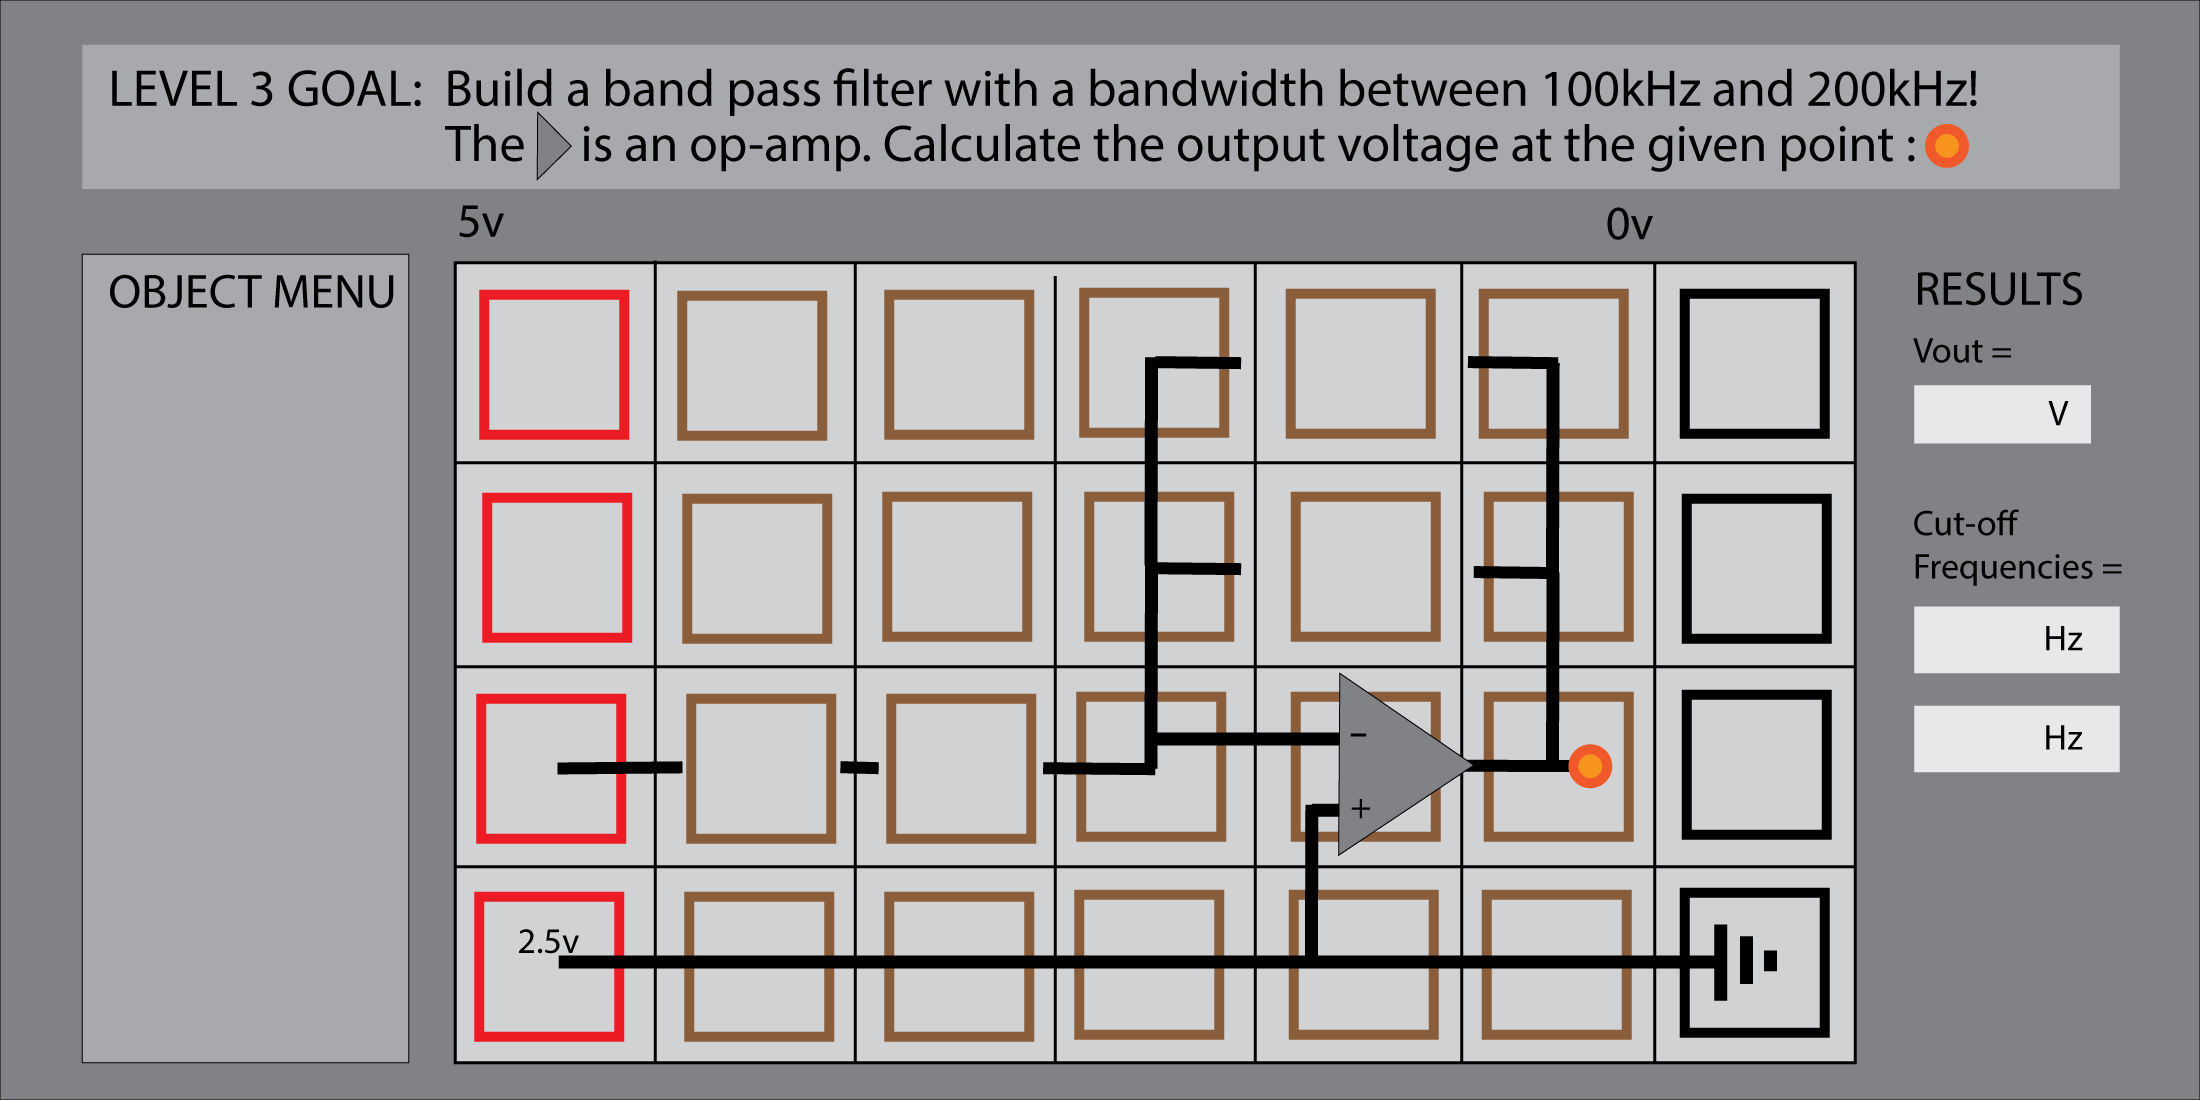
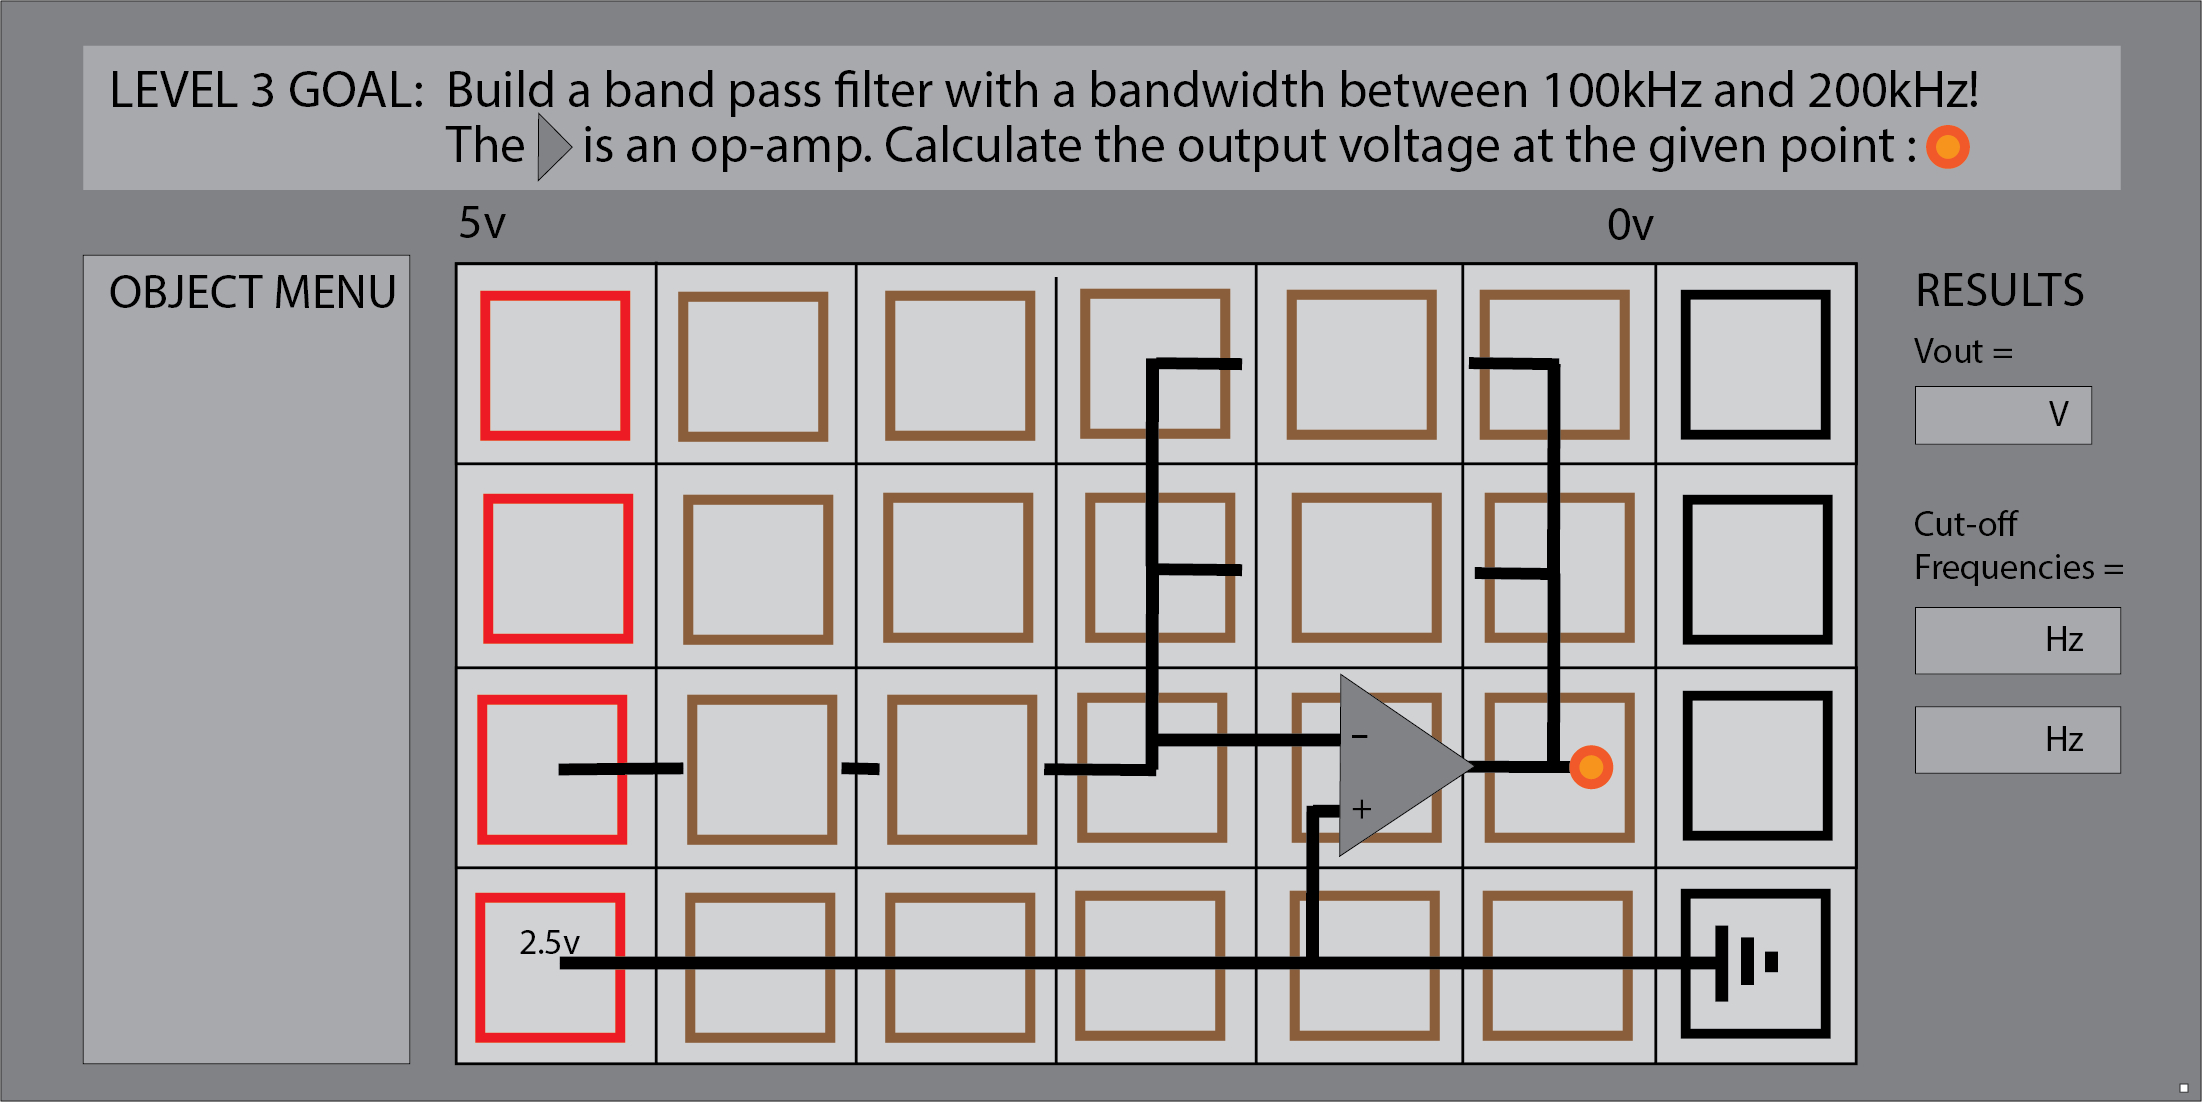
fixed transparency problems

diff --git a/pygame_breadboard/view3.py b/pygame_breadboard/view3.py
@@ -53,14 +53,13 @@ class View3():
         self.screen.blit(c2_label, (70, 365))
        
         COF_Text_High = self.myfont.render(self.game_model.cutoff_frequency_high, 1, (0,0,0))   
-        self.screen.blit(COF_Text_High, (855, 302))
+        self.screen.blit(COF_Text_High, (855, 315))
 
         COF_Text_Low = self.myfont.render(self.game_model.cutoff_frequency_low, 1, (0,0,0))   
-        self.screen.blit(COF_Text_Low, (855, 302))
+        self.screen.blit(COF_Text_Low, (855, 272))
 
-       
         V_Text = self.myfont.render(self.game_model.voltage, 1, (0,0,0))
-        self.screen.blit(V_Text, (855, 192))
+        self.screen.blit(V_Text, (855, 172))
 
         drawables = self.game_model.get_all_drawables() 
         for d in drawables:
